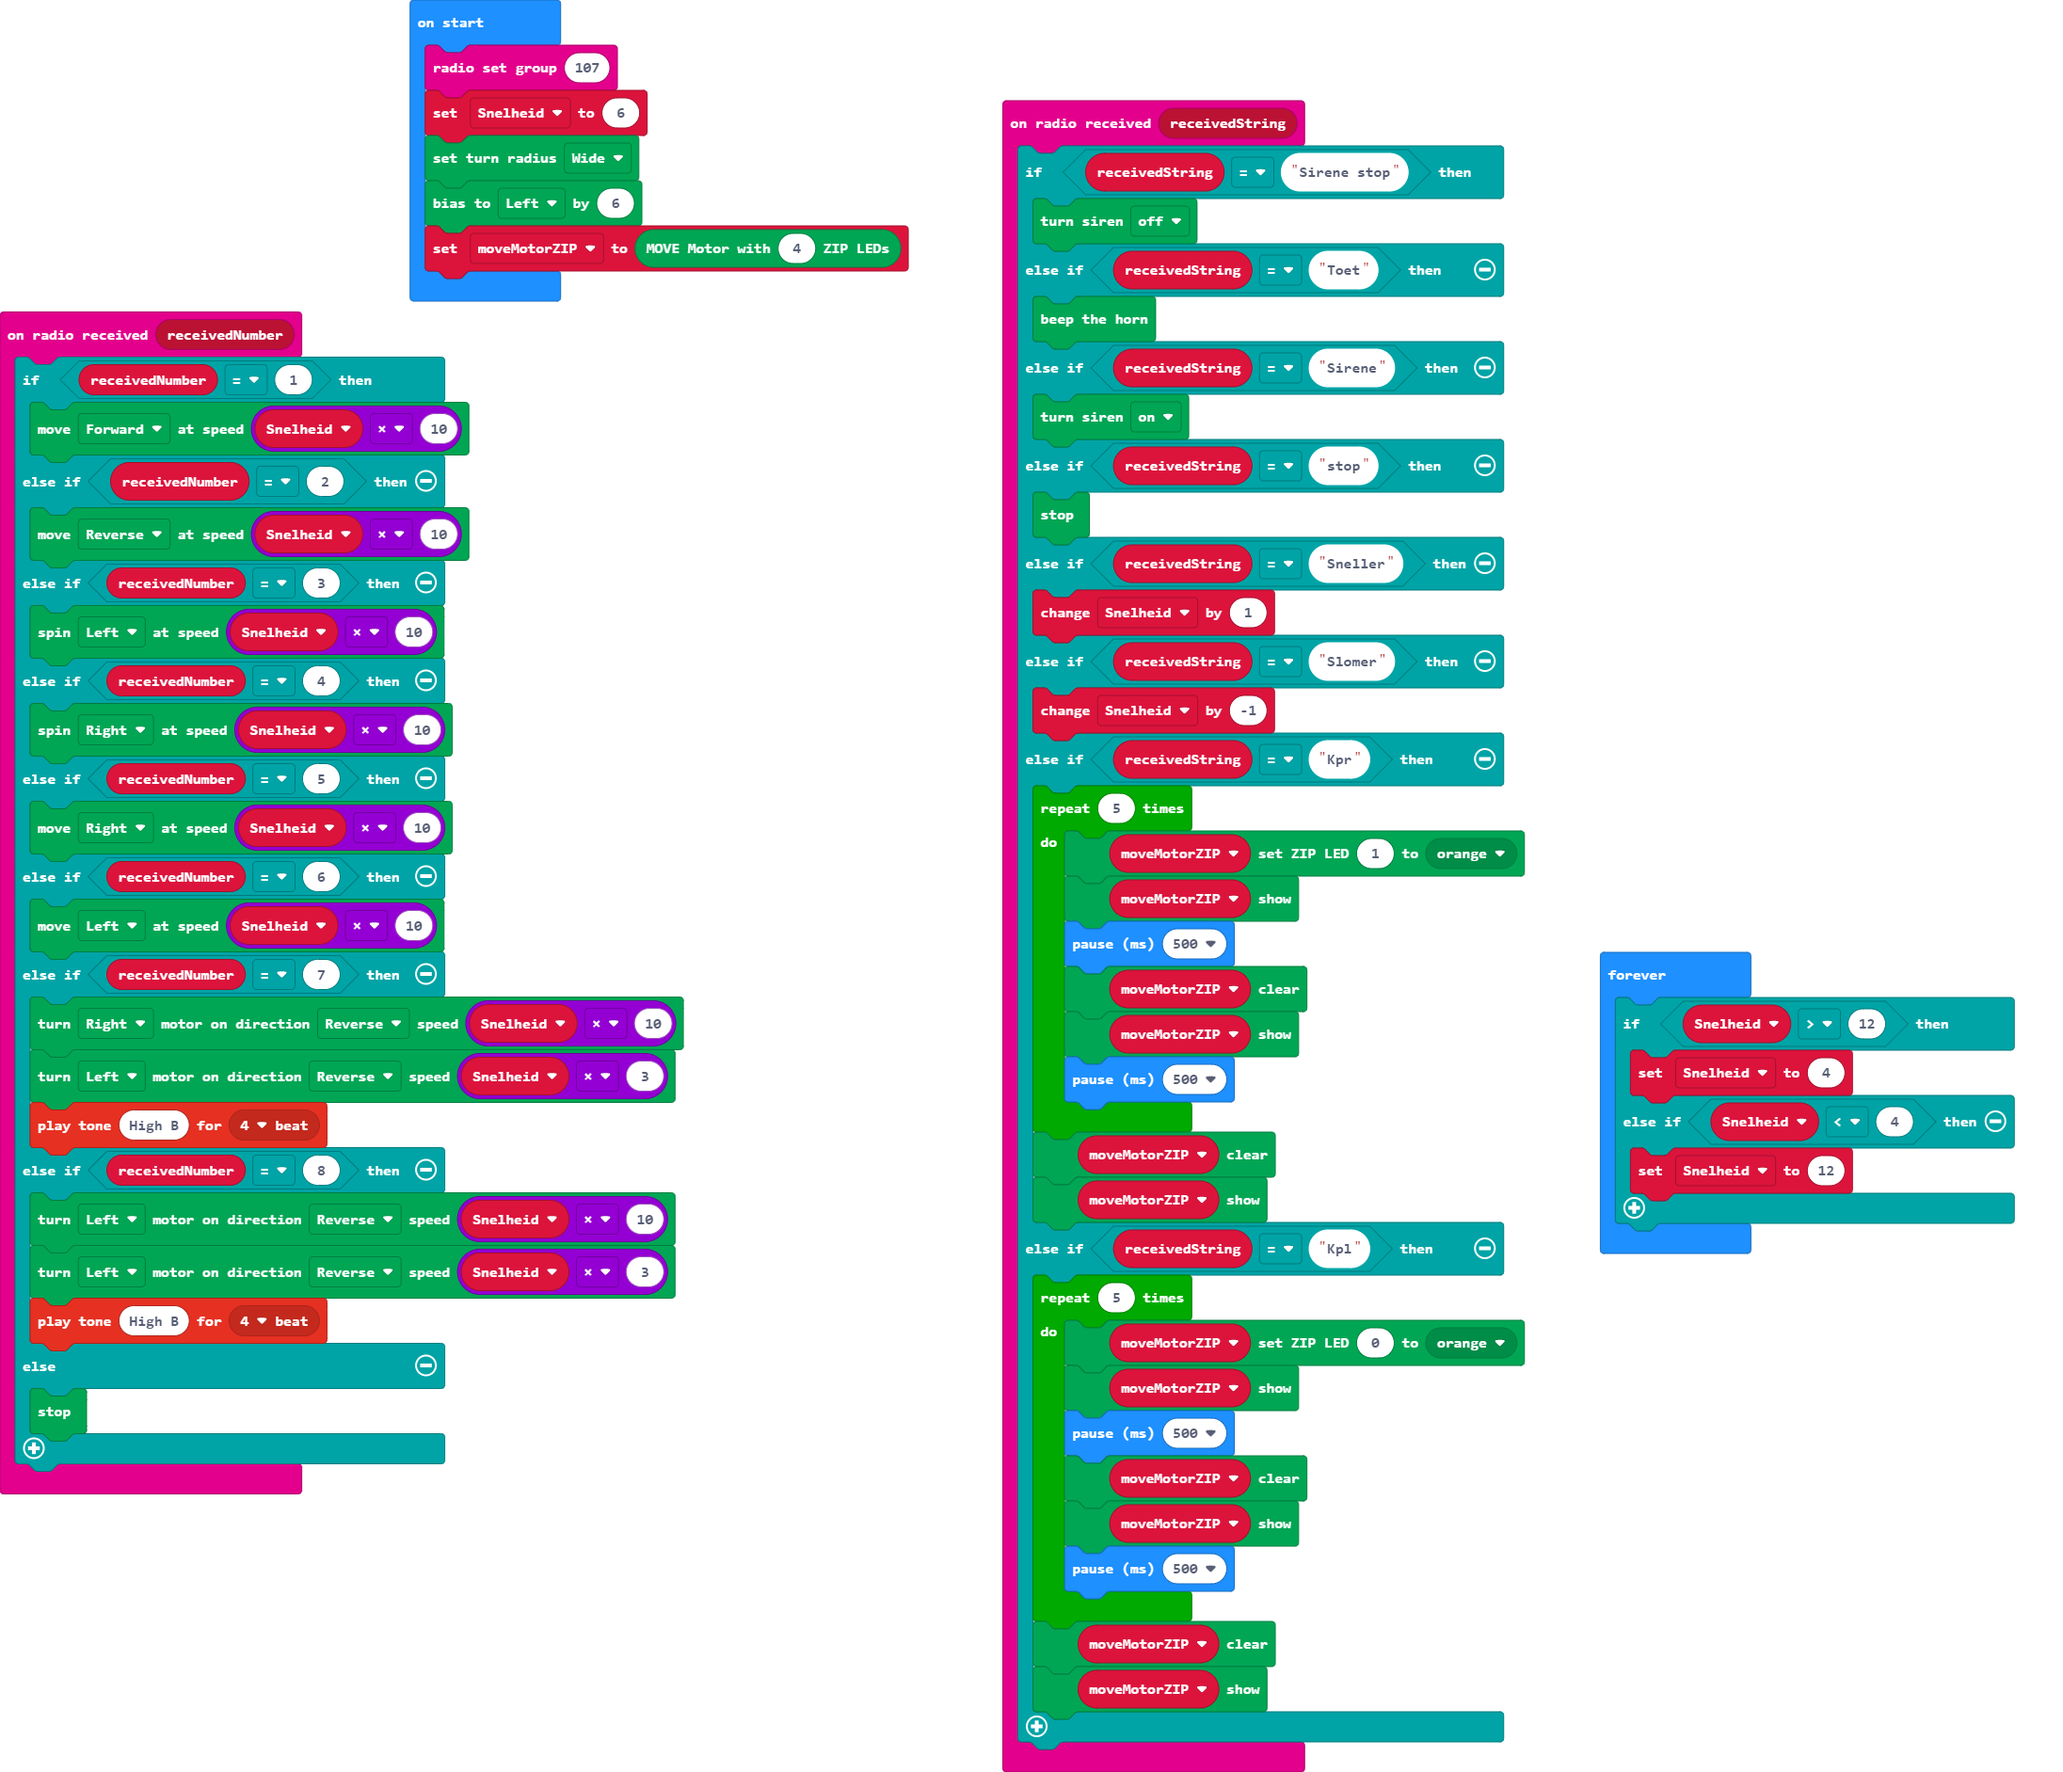
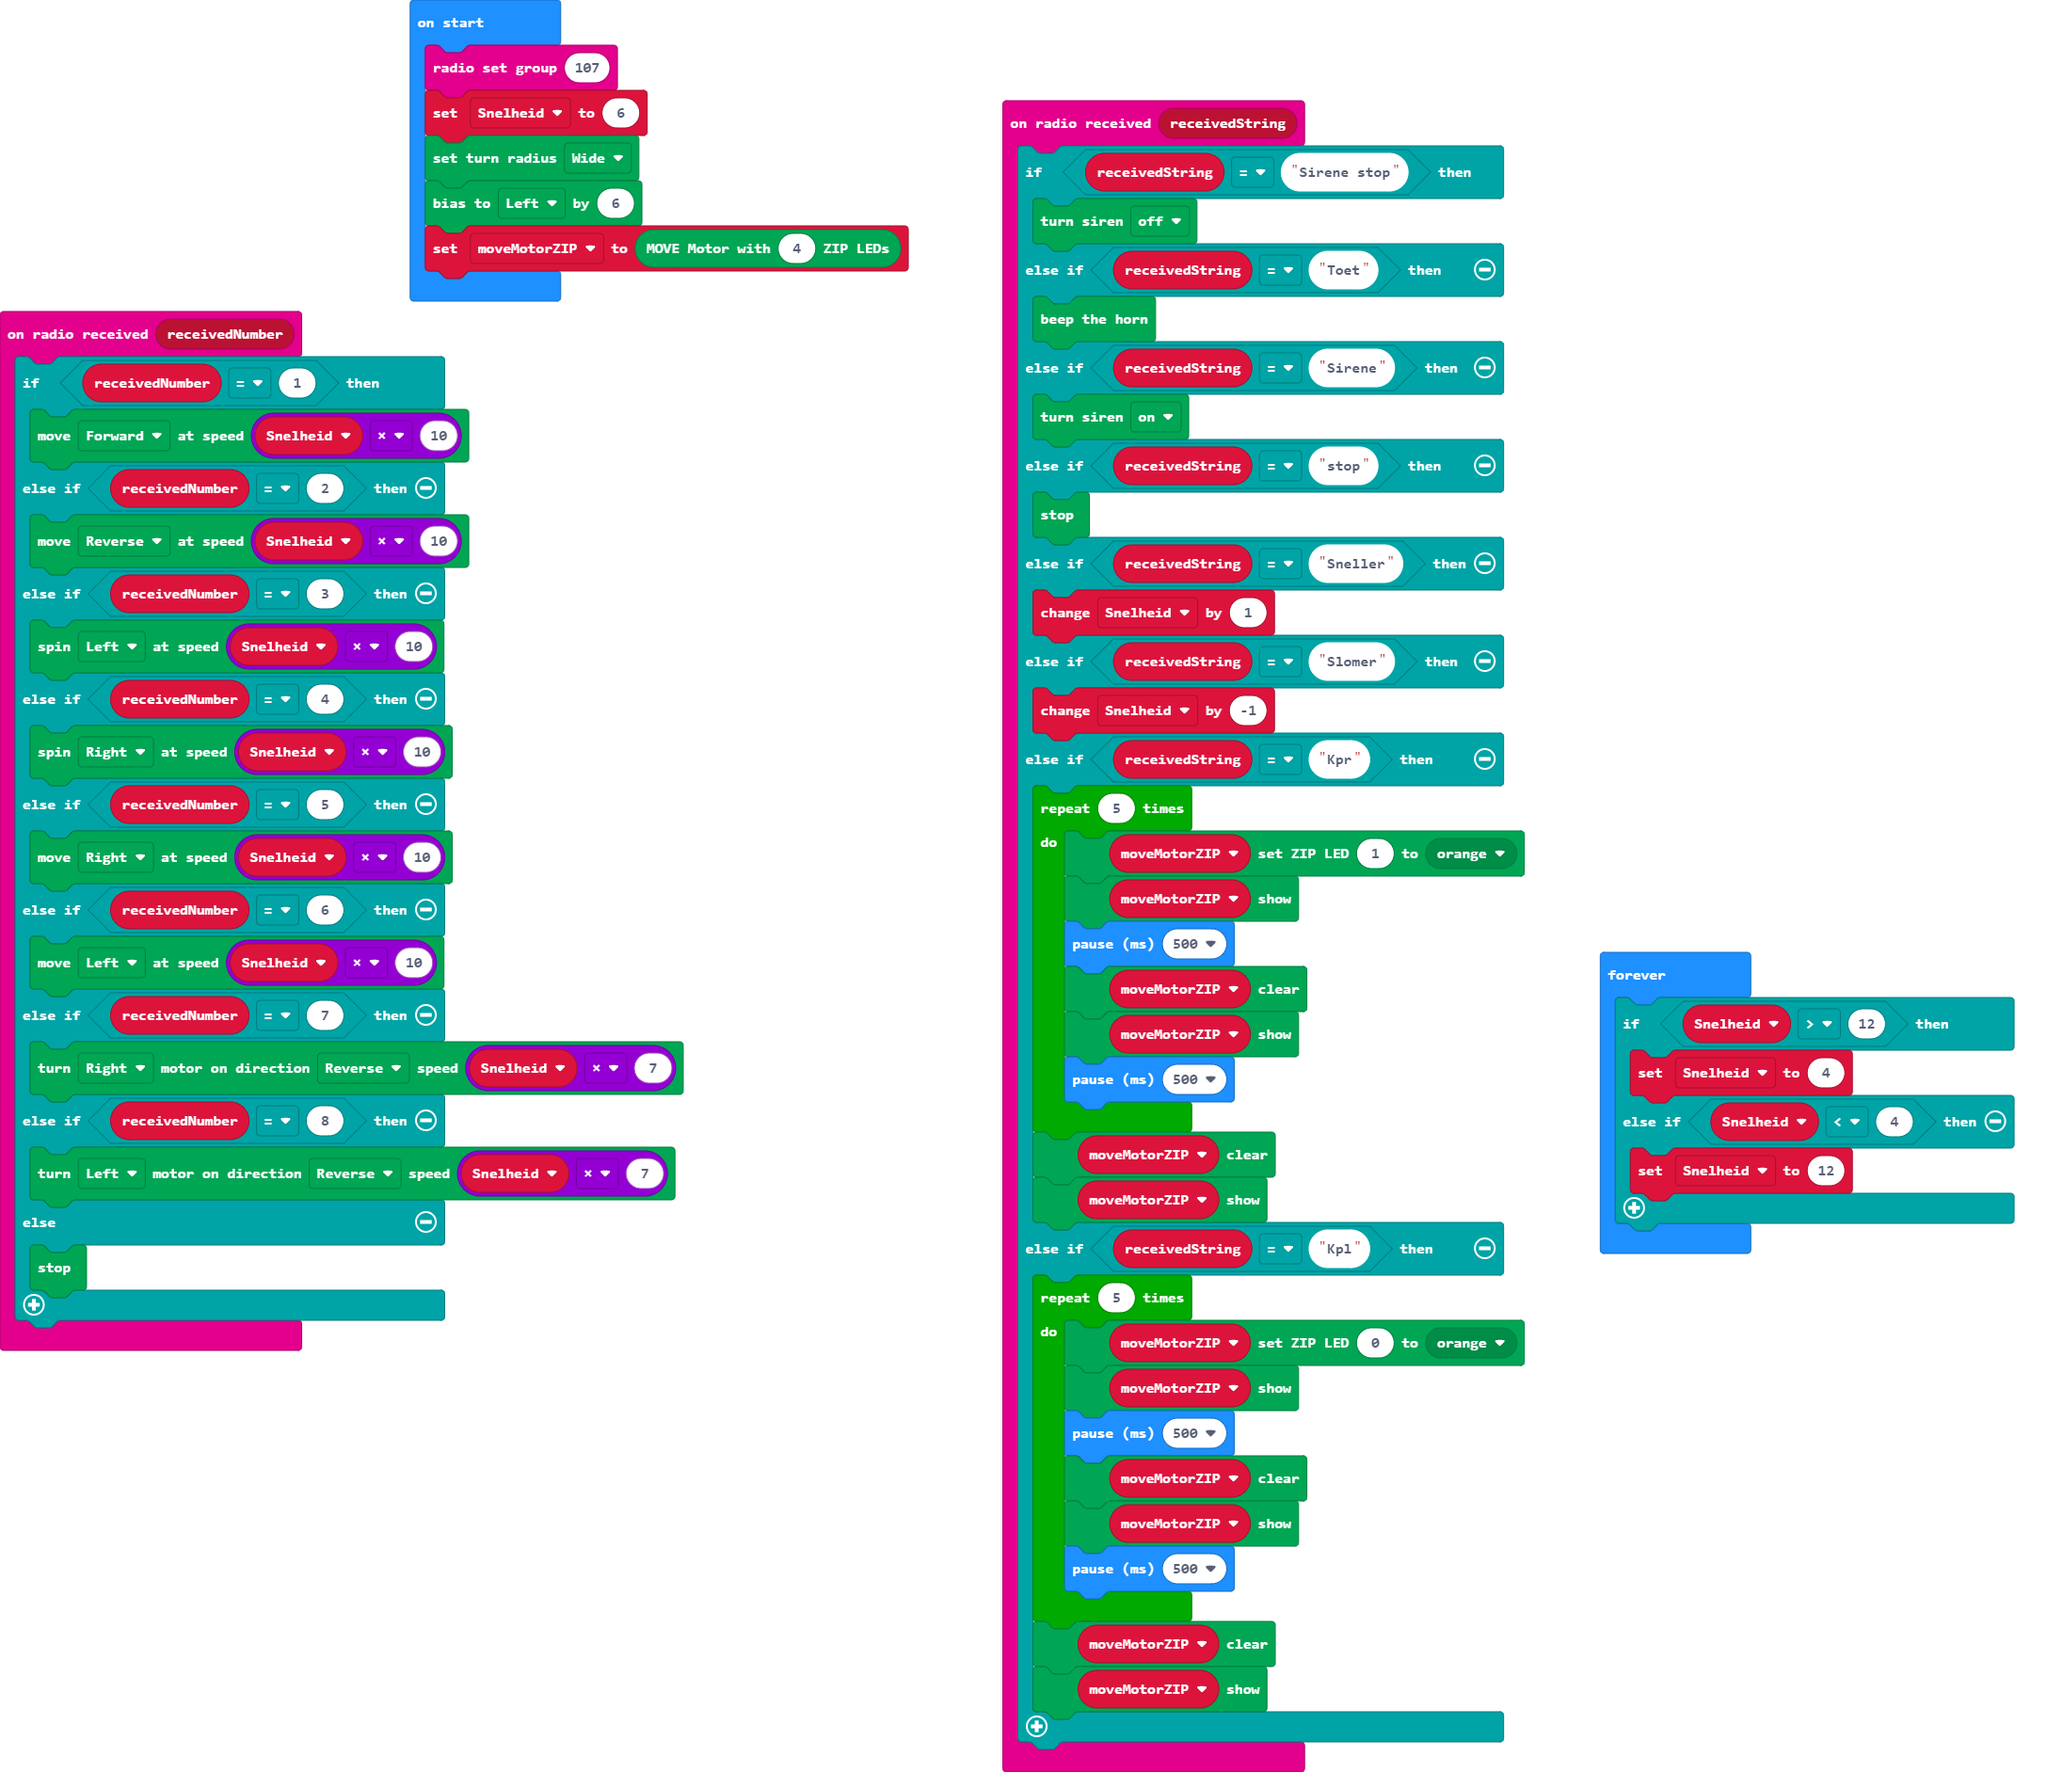
perfect achteruit rijden

Changed region(s): [[0.0, 0.1848, 0.3412, 0.8625]]

diff --git a/main.ts b/main.ts
@@ -12,13 +12,9 @@ radio.onReceivedNumber(function (receivedNumber) {
     } else if (receivedNumber == 6) {
         Kitronik_Move_Motor.move(Kitronik_Move_Motor.DriveDirections.Left, Snelheid * 10)
     } else if (receivedNumber == 7) {
-        Kitronik_Move_Motor.motorOn(Kitronik_Move_Motor.Motors.MotorRight, Kitronik_Move_Motor.MotorDirection.Reverse, Snelheid * 10)
-        Kitronik_Move_Motor.motorOn(Kitronik_Move_Motor.Motors.MotorLeft, Kitronik_Move_Motor.MotorDirection.Reverse, Snelheid * 3)
-        music.playTone(988, music.beat(BeatFraction.Breve))
+        Kitronik_Move_Motor.motorOn(Kitronik_Move_Motor.Motors.MotorRight, Kitronik_Move_Motor.MotorDirection.Reverse, Snelheid * 7)
     } else if (receivedNumber == 8) {
-        Kitronik_Move_Motor.motorOn(Kitronik_Move_Motor.Motors.MotorLeft, Kitronik_Move_Motor.MotorDirection.Reverse, Snelheid * 10)
-        Kitronik_Move_Motor.motorOn(Kitronik_Move_Motor.Motors.MotorLeft, Kitronik_Move_Motor.MotorDirection.Reverse, Snelheid * 3)
-        music.playTone(988, music.beat(BeatFraction.Breve))
+        Kitronik_Move_Motor.motorOn(Kitronik_Move_Motor.Motors.MotorLeft, Kitronik_Move_Motor.MotorDirection.Reverse, Snelheid * 7)
     } else {
         Kitronik_Move_Motor.stop()
     }
